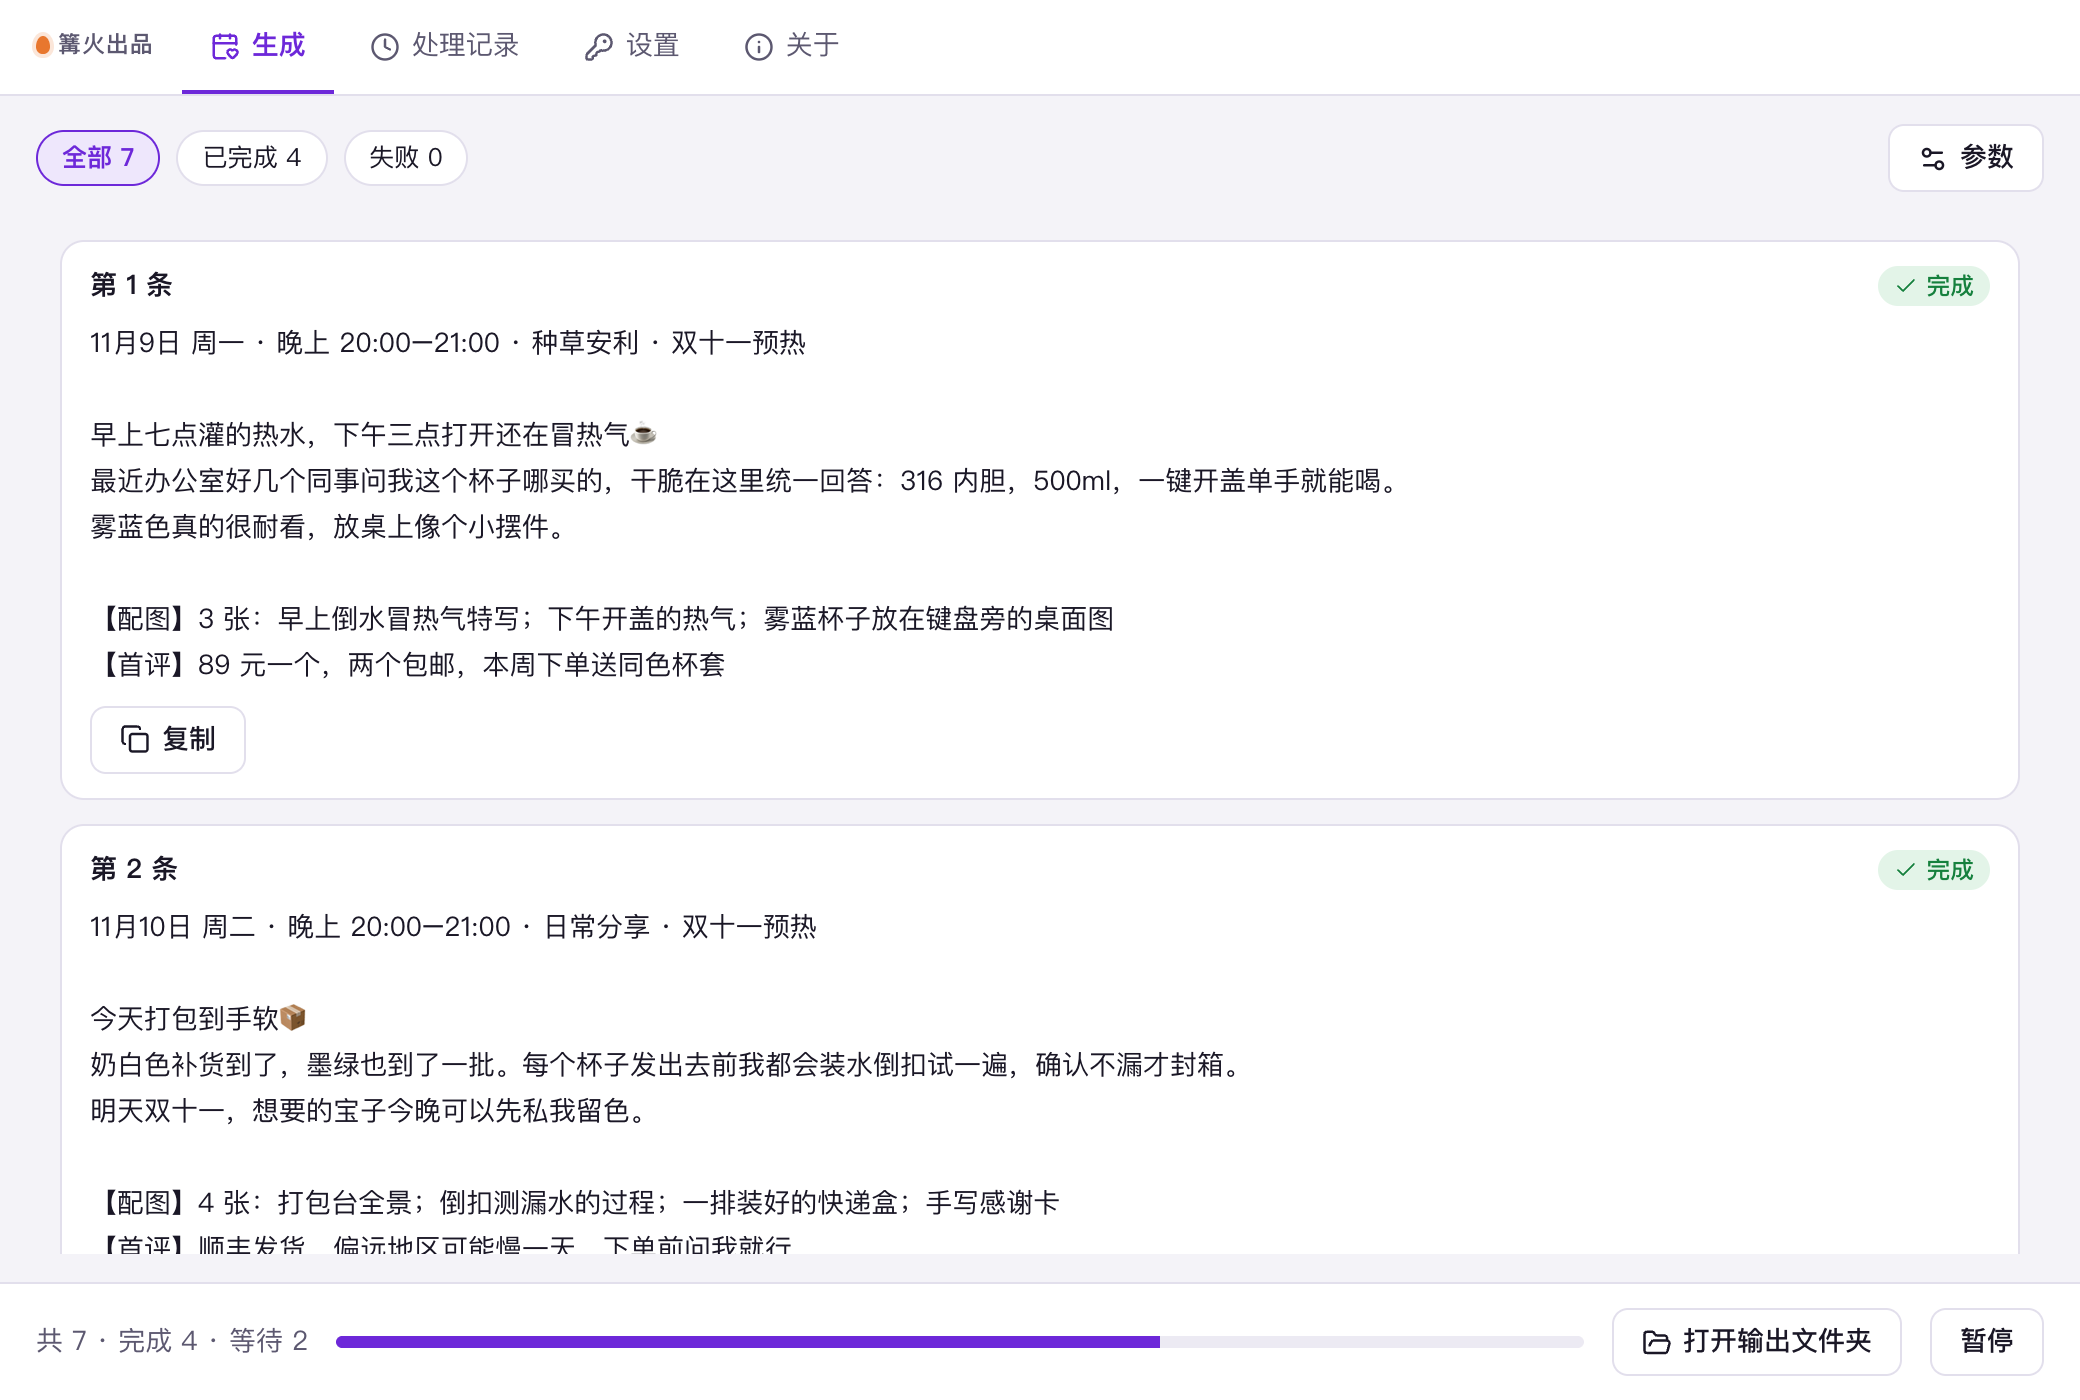
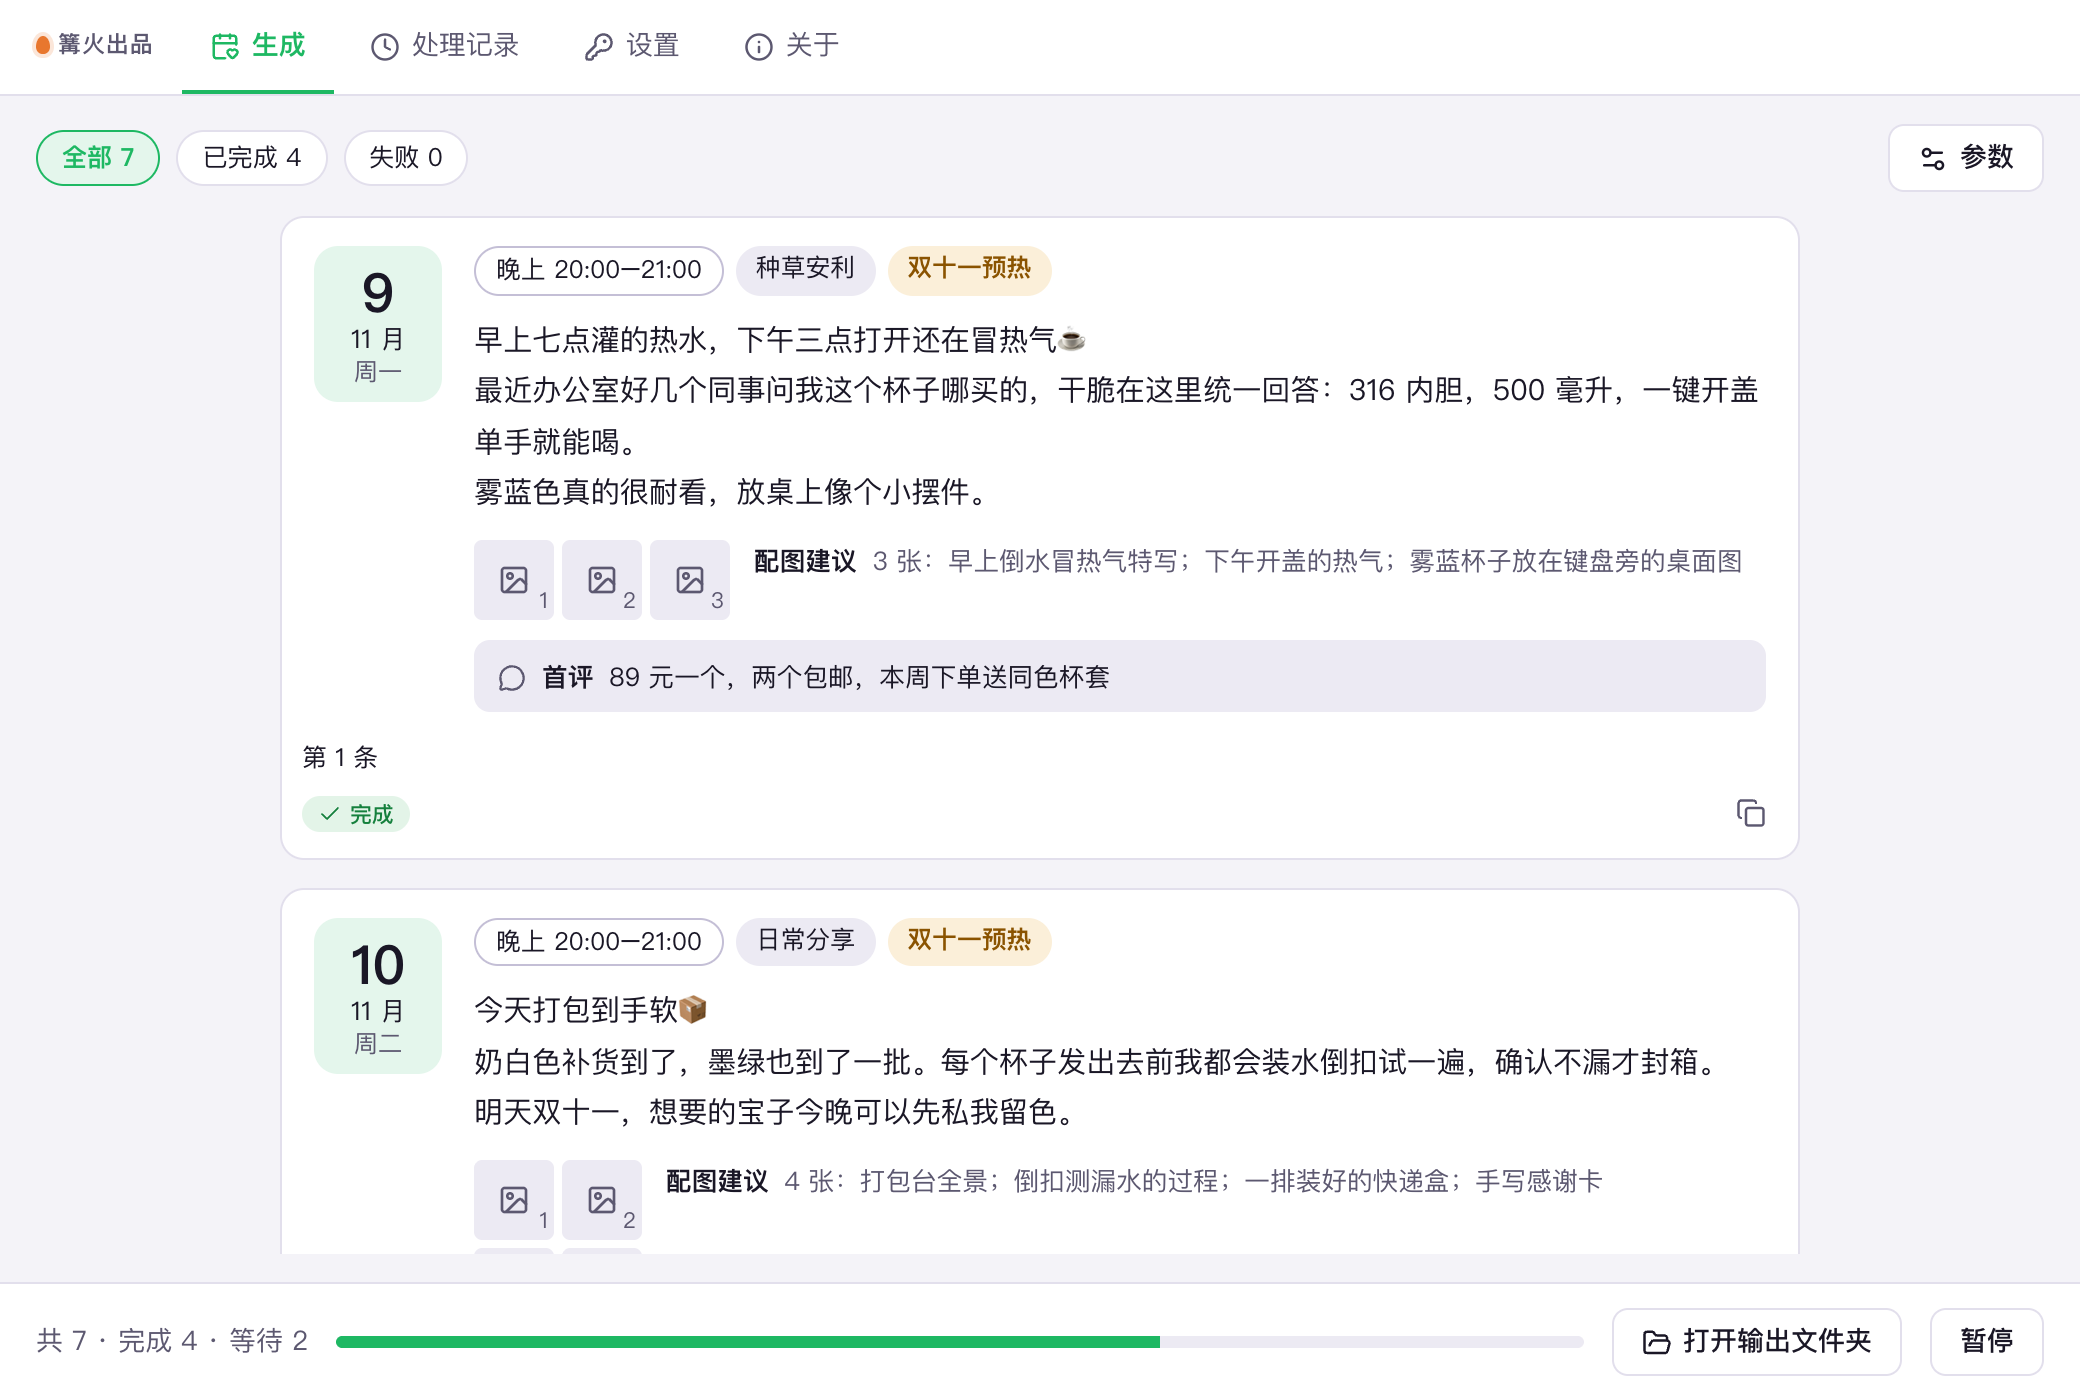
打磨 0.2.0：朋友圈动态式结果卡片与一周日历空状态，界面全中文

diff --git a/src/tool/tool.css b/src/tool/tool.css
@@ -1,0 +1,48 @@
+/* 朋友圈文案日更：布局 f（顶部标签）。只用 kit.css 的变量，类名以 mm- 开头。
+   焦点：一条条像朋友圈动态的卡片——日期大字、正文气泡、配图占位格、评论区首评。 */
+.L-f .k-cards { grid-template-columns: 1fr; gap: 14px; max-width: 760px; margin: 0 auto; }
+.L-f .k-card-body { padding: 14px 16px 6px; }
+.mm-sub { margin: 0; color: var(--muted); }
+
+.mm-post { display: grid; grid-template-columns: 64px 1fr; gap: 16px; }
+.mm-date { display: grid; align-content: start; justify-items: center; gap: 0; padding: 8px 0; border-radius: 12px; background: var(--primary-soft); height: fit-content; line-height: 1.15; }
+.mm-date b { font-size: 2em; font-weight: 800; color: var(--ink); }
+.mm-date span { font-size: .95em; color: var(--ink); }
+.mm-date em { font-style: normal; font-size: .9em; color: var(--muted); margin-top: 2px; }
+.mm-main { display: grid; gap: 10px; min-width: 0; }
+.mm-tags { display: flex; flex-wrap: wrap; gap: 6px; }
+.mm-tag { padding: 2px 10px; border-radius: 999px; background: var(--chip); color: var(--ink); font-size: .92em; }
+.mm-tag.time { background: transparent; border: 1px solid var(--line-strong); }
+.mm-tag.fest { background: var(--warn-soft); color: var(--warn); font-weight: 600; }
+.mm-copy { margin: 0; white-space: pre-wrap; font-size: 1.08em; line-height: 1.75; color: var(--ink); user-select: text; }
+.mm-img { display: flex; gap: 12px; align-items: flex-start; flex-wrap: wrap; }
+.mm-grid { display: grid; grid-template-columns: repeat(3, 40px); gap: 4px; }
+.mm-grid[data-n="1"] { grid-template-columns: 84px; }
+.mm-grid[data-n="2"], .mm-grid[data-n="4"] { grid-template-columns: repeat(2, 40px); }
+.mm-tile { position: relative; display: grid; place-items: center; width: 100%; aspect-ratio: 1; min-height: 40px; border-radius: 4px; background: var(--chip); color: var(--muted); }
+.mm-grid[data-n="1"] .mm-tile { min-height: 84px; }
+.mm-tile i { position: absolute; right: 3px; bottom: 1px; font-style: normal; font-size: 11px; }
+.mm-img-t { flex: 1 1 200px; min-width: 0; color: var(--muted); font-size: .95em; line-height: 1.6; user-select: text; }
+.mm-img-t b, .mm-comment b { margin-right: 8px; color: var(--ink); }
+.mm-comment { display: flex; gap: 8px; align-items: flex-start; padding: 8px 12px; border-radius: 8px; background: var(--chip); font-size: .95em; line-height: 1.6; user-select: text; }
+.mm-comment svg { flex: none; margin-top: 4px; color: var(--muted); }
+
+.mm-empty { display: flex; flex-direction: column; align-items: center; gap: 10px; padding: 16px 8px; text-align: center; border-radius: 14px; border: 2px dashed transparent; }
+.mm-empty.hover { border-color: var(--primary); }
+.mm-empty > svg { width: 100%; max-width: 620px; height: auto; }
+.mm-e-card { fill: var(--surface); stroke: var(--line-strong); stroke-width: 1.4; }
+.mm-e-k { font-size: 11px; fill: var(--muted); font-family: var(--font); }
+.mm-e-v { font-size: 12.5px; font-weight: 600; fill: var(--ink); font-family: var(--font); }
+.mm-e-arrow { fill: none; stroke: var(--primary); stroke-width: 2.4; stroke-linecap: round; stroke-linejoin: round; }
+.mm-e-step { fill: var(--primary-soft); stroke: var(--primary); stroke-width: 1.4; stroke-dasharray: 4 3; }
+.mm-e-st1 { font-size: 14px; font-weight: 700; fill: var(--ink); font-family: var(--font); }
+.mm-e-st2 { font-size: 11.5px; fill: var(--ink); font-family: var(--font); }
+.mm-e-day { fill: var(--surface); stroke: var(--line-strong); stroke-width: 1.2; }
+.mm-e-day.hot { fill: var(--warn-soft); stroke: var(--warn); }
+.mm-e-d { font-size: 20px; font-weight: 800; fill: var(--ink); font-family: var(--font); }
+.mm-e-w { font-size: 10.5px; fill: var(--muted); font-family: var(--font); }
+.mm-e-s { font-size: 11.5px; font-weight: 600; fill: var(--ink); font-family: var(--font); }
+.mm-e-title { font-size: 1.3em; color: var(--ink); margin-top: 4px; }
+.mm-e-sub { max-width: 520px; color: var(--muted); line-height: 1.7; }
+.mm-e-act { display: inline-flex; align-items: center; gap: 6px; padding: 6px 14px; border-radius: 999px; background: var(--primary-soft); color: var(--ink); font-weight: 600; }
+@media (max-width: 560px) { .mm-post { grid-template-columns: 1fr; } .mm-date { grid-auto-flow: column; justify-content: start; gap: 8px; padding: 6px 12px; align-items: baseline; } }

diff --git a/src/tool/Result.tsx b/src/tool/Result.tsx
@@ -1,0 +1,66 @@
+// 结果展示：像朋友圈里的一条动态——左边是发布日期，右边是正文气泡、配图占位格和评论区首评
+import { ImageIcon, MessageCircle } from 'lucide-react';
+import type { InputItem, ItemResult } from '../kit/types';
+import './tool.css';
+
+interface Parsed { day: string; month: string; weekday: string; time: string; style: string; festival: string; copy: string; image: string; comment: string }
+
+const CN: Record<string, number> = { 一: 1, 二: 2, 两: 2, 三: 3, 四: 4, 五: 5, 六: 6, 七: 7, 八: 8, 九: 9 };
+
+/** 把 formatPost 生成的文字还原成结构：第一行是「月日 星期 · 时段 · 风格 · 节日」，其后是正文、【配图】、【首评】 */
+export function parsePost(text: string): Parsed {
+  const [head = '', ...rest] = text.split('\n');
+  const body = rest.join('\n').trim();
+  const iImg = body.indexOf('【配图】');
+  const iCom = body.indexOf('【首评】');
+  const cut = [iImg, iCom].filter((i) => i >= 0).sort((a, b) => a - b)[0] ?? body.length;
+  const field = (tag: string) => {
+    const i = body.indexOf(tag);
+    if (i < 0) return '';
+    const end = [iImg, iCom].filter((j) => j > i).sort((a, b) => a - b)[0] ?? body.length;
+    return body.slice(i + tag.length, end).trim();
+  };
+  const parts = head.split(' · ');
+  const m = /^(\d+)月(\d+)日\s*(\S+)/.exec(parts[0] ?? '');
+  return {
+    month: m ? `${m[1]} 月` : '', day: m ? m[2] : '', weekday: m ? m[3] : '',
+    time: parts[1] ?? '', style: parts[2] ?? '', festival: parts[3] ?? '',
+    copy: body.slice(0, cut).trim(), image: field('【配图】'), comment: field('【首评】'),
+  };
+}
+
+/** 配图建议里「3 张」「三张」的张数，认不出来按 0 张（不画占位格） */
+export function imageCount(s: string): number {
+  const m = /(\d+|[一二两三四五六七八九])\s*张/.exec(s);
+  if (!m) return 0;
+  const n = /\d/.test(m[1]) ? Number(m[1]) : CN[m[1]];
+  return Math.min(9, Math.max(0, n));
+}
+
+export function ResultBody({ result }: { item: InputItem; result: ItemResult }) {
+  if (!result.text) return <p className="mm-sub">{result.summary}</p>;
+  const p = parsePost(result.text);
+  const n = imageCount(p.image);
+  return (
+    <div className="mm-post">
+      <div className="mm-date" aria-label={`${p.month}${p.day}日 ${p.weekday}`}>
+        <b className="k-num">{p.day}</b><span>{p.month}</span><em>{p.weekday}</em>
+      </div>
+      <div className="mm-main">
+        <div className="mm-tags">
+          <span className="mm-tag time">{p.time}</span>
+          <span className="mm-tag">{p.style}</span>
+          {p.festival && <span className="mm-tag fest">{p.festival}</span>}
+        </div>
+        <p className="mm-copy">{p.copy}</p>
+        {p.image && (
+          <div className="mm-img">
+            {n > 0 && <div className="mm-grid" data-n={n}>{Array.from({ length: n }, (_, i) => <span key={i} className="mm-tile"><ImageIcon size={16} /><i className="k-num">{i + 1}</i></span>)}</div>}
+            <span className="mm-img-t"><b>配图建议</b>{p.image}</span>
+          </div>
+        )}
+        {p.comment && <div className="mm-comment"><MessageCircle size={14} /><span><b>首评</b>{p.comment}</span></div>}
+      </div>
+    </div>
+  );
+}

diff --git a/src/tool/Empty.tsx b/src/tool/Empty.tsx
@@ -1,0 +1,37 @@
+// 空状态：画出「一段商品信息 → 大模型 → 一周的朋友圈日历」，示例用真实感的中文
+import { Settings2 } from 'lucide-react';
+import './tool.css';
+
+const DAYS: [string, string, string][] = [['9', '周一', '种草'], ['10', '周二', '日常'], ['11', '周三', '双十一'], ['12', '周四', '促销'], ['13', '周五', '种草'], ['14', '周六', '日常'], ['15', '周日', '种草']];
+
+export function Empty({ hover }: { hover: boolean }) {
+  return (
+    <div className={`mm-empty${hover ? ' hover' : ''}`}>
+      <svg viewBox="0 0 600 220" role="img" aria-label="一段商品信息交给大模型，排成一周的朋友圈文案日历">
+        <rect x="6" y="30" width="150" height="130" rx="10" className="mm-e-card" />
+        <text x="18" y="52" className="mm-e-k">商品信息</text>
+        <text x="18" y="76" className="mm-e-v">316 保温杯 500 毫升</text>
+        <text x="18" y="98" className="mm-e-v">89 元两个包邮</text>
+        <text x="18" y="120" className="mm-e-v">本周送杯套</text>
+        <text x="18" y="142" className="mm-e-v">客户是上班族</text>
+        <path d="M164 95 H196 M188 87 L198 95 L188 103" className="mm-e-arrow" />
+        <rect x="204" y="58" width="76" height="74" rx="10" className="mm-e-step" />
+        <text x="242" y="88" textAnchor="middle" className="mm-e-st1">大模型</text>
+        <text x="242" y="108" textAnchor="middle" className="mm-e-st2">写文案</text>
+        <text x="242" y="124" textAnchor="middle" className="mm-e-st2">配首评</text>
+        <path d="M288 95 H312 M304 87 L314 95 L304 103" className="mm-e-arrow" />
+        {DAYS.map(([d, w, s], i) => (
+          <g key={d} transform={`translate(${322 + (i % 4) * 68} ${i < 4 ? 20 : 112})`}>
+            <rect width="62" height="84" rx="8" className={`mm-e-day${s === '双十一' ? ' hot' : ''}`} />
+            <text x="31" y="34" textAnchor="middle" className="mm-e-d">{d}</text>
+            <text x="31" y="50" textAnchor="middle" className="mm-e-w">{w}</text>
+            <text x="31" y="72" textAnchor="middle" className="mm-e-s">{s}</text>
+          </g>
+        ))}
+      </svg>
+      <b className="mm-e-title">把商品信息，排成一周不重样的朋友圈</b>
+      <span className="mm-e-sub">点右上角「参数」写好商品信息，选风格和天数，再点底部「生成文案」。每天一条动态：正文、配图建议、评论区首评，遇到节日自动预热。</span>
+      <span className="mm-e-act"><Settings2 size={15} />只生成文案和排期表，发布由你自己手动完成</span>
+    </div>
+  );
+}

diff --git a/src/tool/index.ts b/src/tool/index.ts
@@ -4,6 +4,8 @@ import type { GenerateTool, Params, RunContext } from '../kit/types';
 import { isFatalLlmError, safeName } from './common';
 import { STYLES, buildMessages, fmt, formatPost, parseReply, parseStart, planPost, scheduleSheet, todayYmd, totalPosts, type Plan, type PlanOptions, type Post } from './core';
 import { writeXlsx } from './xlsx';
+import { Empty } from './Empty';
+import { ResultBody } from './Result';
 
 const clamp = (v: unknown, lo: number, hi: number, dflt: number) => Math.min(hi, Math.max(lo, Math.round(Number(v)) || dflt));
 
@@ -36,12 +38,14 @@ const tool: GenerateTool = {
   category: '微信私域',
   type: 'text',
   mode: 'generate',
-  resultView: 'text',
+  resultView: 'cards',
+  Empty,
+  ResultBody,
   needsLLM: true,
   concurrency: 2,
   generateLabel: '生成文案',
   params: [
-    { key: 'info', label: '商品 / 品牌信息', type: 'textarea', rows: 5, default: '', placeholder: '例如：小王家的 316 不锈钢保温杯，500ml，保温 12 小时，一键开盖。本周下单送杯套，两个包邮。目标客户是上班族和学生。' },
+    { key: 'info', label: '商品 / 品牌信息', type: 'textarea', rows: 5, default: '', placeholder: '例如：小王家的 316 不锈钢保温杯，500 毫升，保温 12 小时，一键开盖。本周下单送杯套，两个包邮。目标客户是上班族和学生。' },
     { key: 'style', label: '文案风格', type: 'select', options: STYLES, default: 'mix', help: '「每天轮换」会在种草、日常、促销之间换着写，朋友圈不容易显得刷屏' },
     { key: 'days', label: '生成几天', type: 'number', default: 7, min: 1, max: 30, unit: '天' },
     { key: 'perDay', label: '每天几条', type: 'number', default: 1, min: 1, max: 3, unit: '条', help: '每条调用一次大模型，天数 × 条数越多费用越高' },

diff --git a/src/tool/preview.ts b/src/tool/preview.ts
@@ -5,7 +5,7 @@ const posts = [
   `11月9日 周一 · 晚上 20:00–21:00 · 种草安利 · 双十一预热
 
 早上七点灌的热水，下午三点打开还在冒热气☕
-最近办公室好几个同事问我这个杯子哪买的，干脆在这里统一回答：316 内胆，500ml，一键开盖单手就能喝。
+最近办公室好几个同事问我这个杯子哪买的，干脆在这里统一回答：316 内胆，500 毫升，一键开盖单手就能喝。
 雾蓝色真的很耐看，放桌上像个小摆件。
 
 【配图】3 张：早上倒水冒热气特写；下午开盖的热气；雾蓝杯子放在键盘旁的桌面图
@@ -50,4 +50,4 @@ export const rows = (state: string): Row[] => {
   });
 };
 
-export const params = { info: '小王家的 316 不锈钢保温杯，500ml，保温 12 小时，一键开盖。89 元两个包邮，本周下单送杯套。', days: 7, perDay: 1, style: 'mix', start: '2026-11-09' };
+export const params = { info: '小王家的 316 不锈钢保温杯，500 毫升，保温 12 小时，一键开盖。89 元两个包邮，本周下单送杯套。', days: 7, perDay: 1, style: 'mix', start: '2026-11-09' };

diff --git a/CHANGELOG.md b/CHANGELOG.md
@@ -1,5 +1,14 @@
 # 更新记录
 
+## 0.2.0
+
+- 结果卡片改成朋友圈动态的样子：左边是发布日期大字，右边是时段、风格、节日标签，正文，配图占位格和评论区首评。
+- 配图建议里写了几张，就画几个占位格，一眼看出每条要拍多少。
+- 新增空状态示意图：一段商品信息经大模型排成一周的日历，节日那天高亮。
+- 结果列表改为单列宽卡片，复制按钮保留。
+- 示例里的「ml」改成「毫升」，全部文字只用中文。
+- 重写上架文案，增加使用场景。功能和数据逻辑不变。
+
 ## 0.1.0
 
 - 首个版本。
